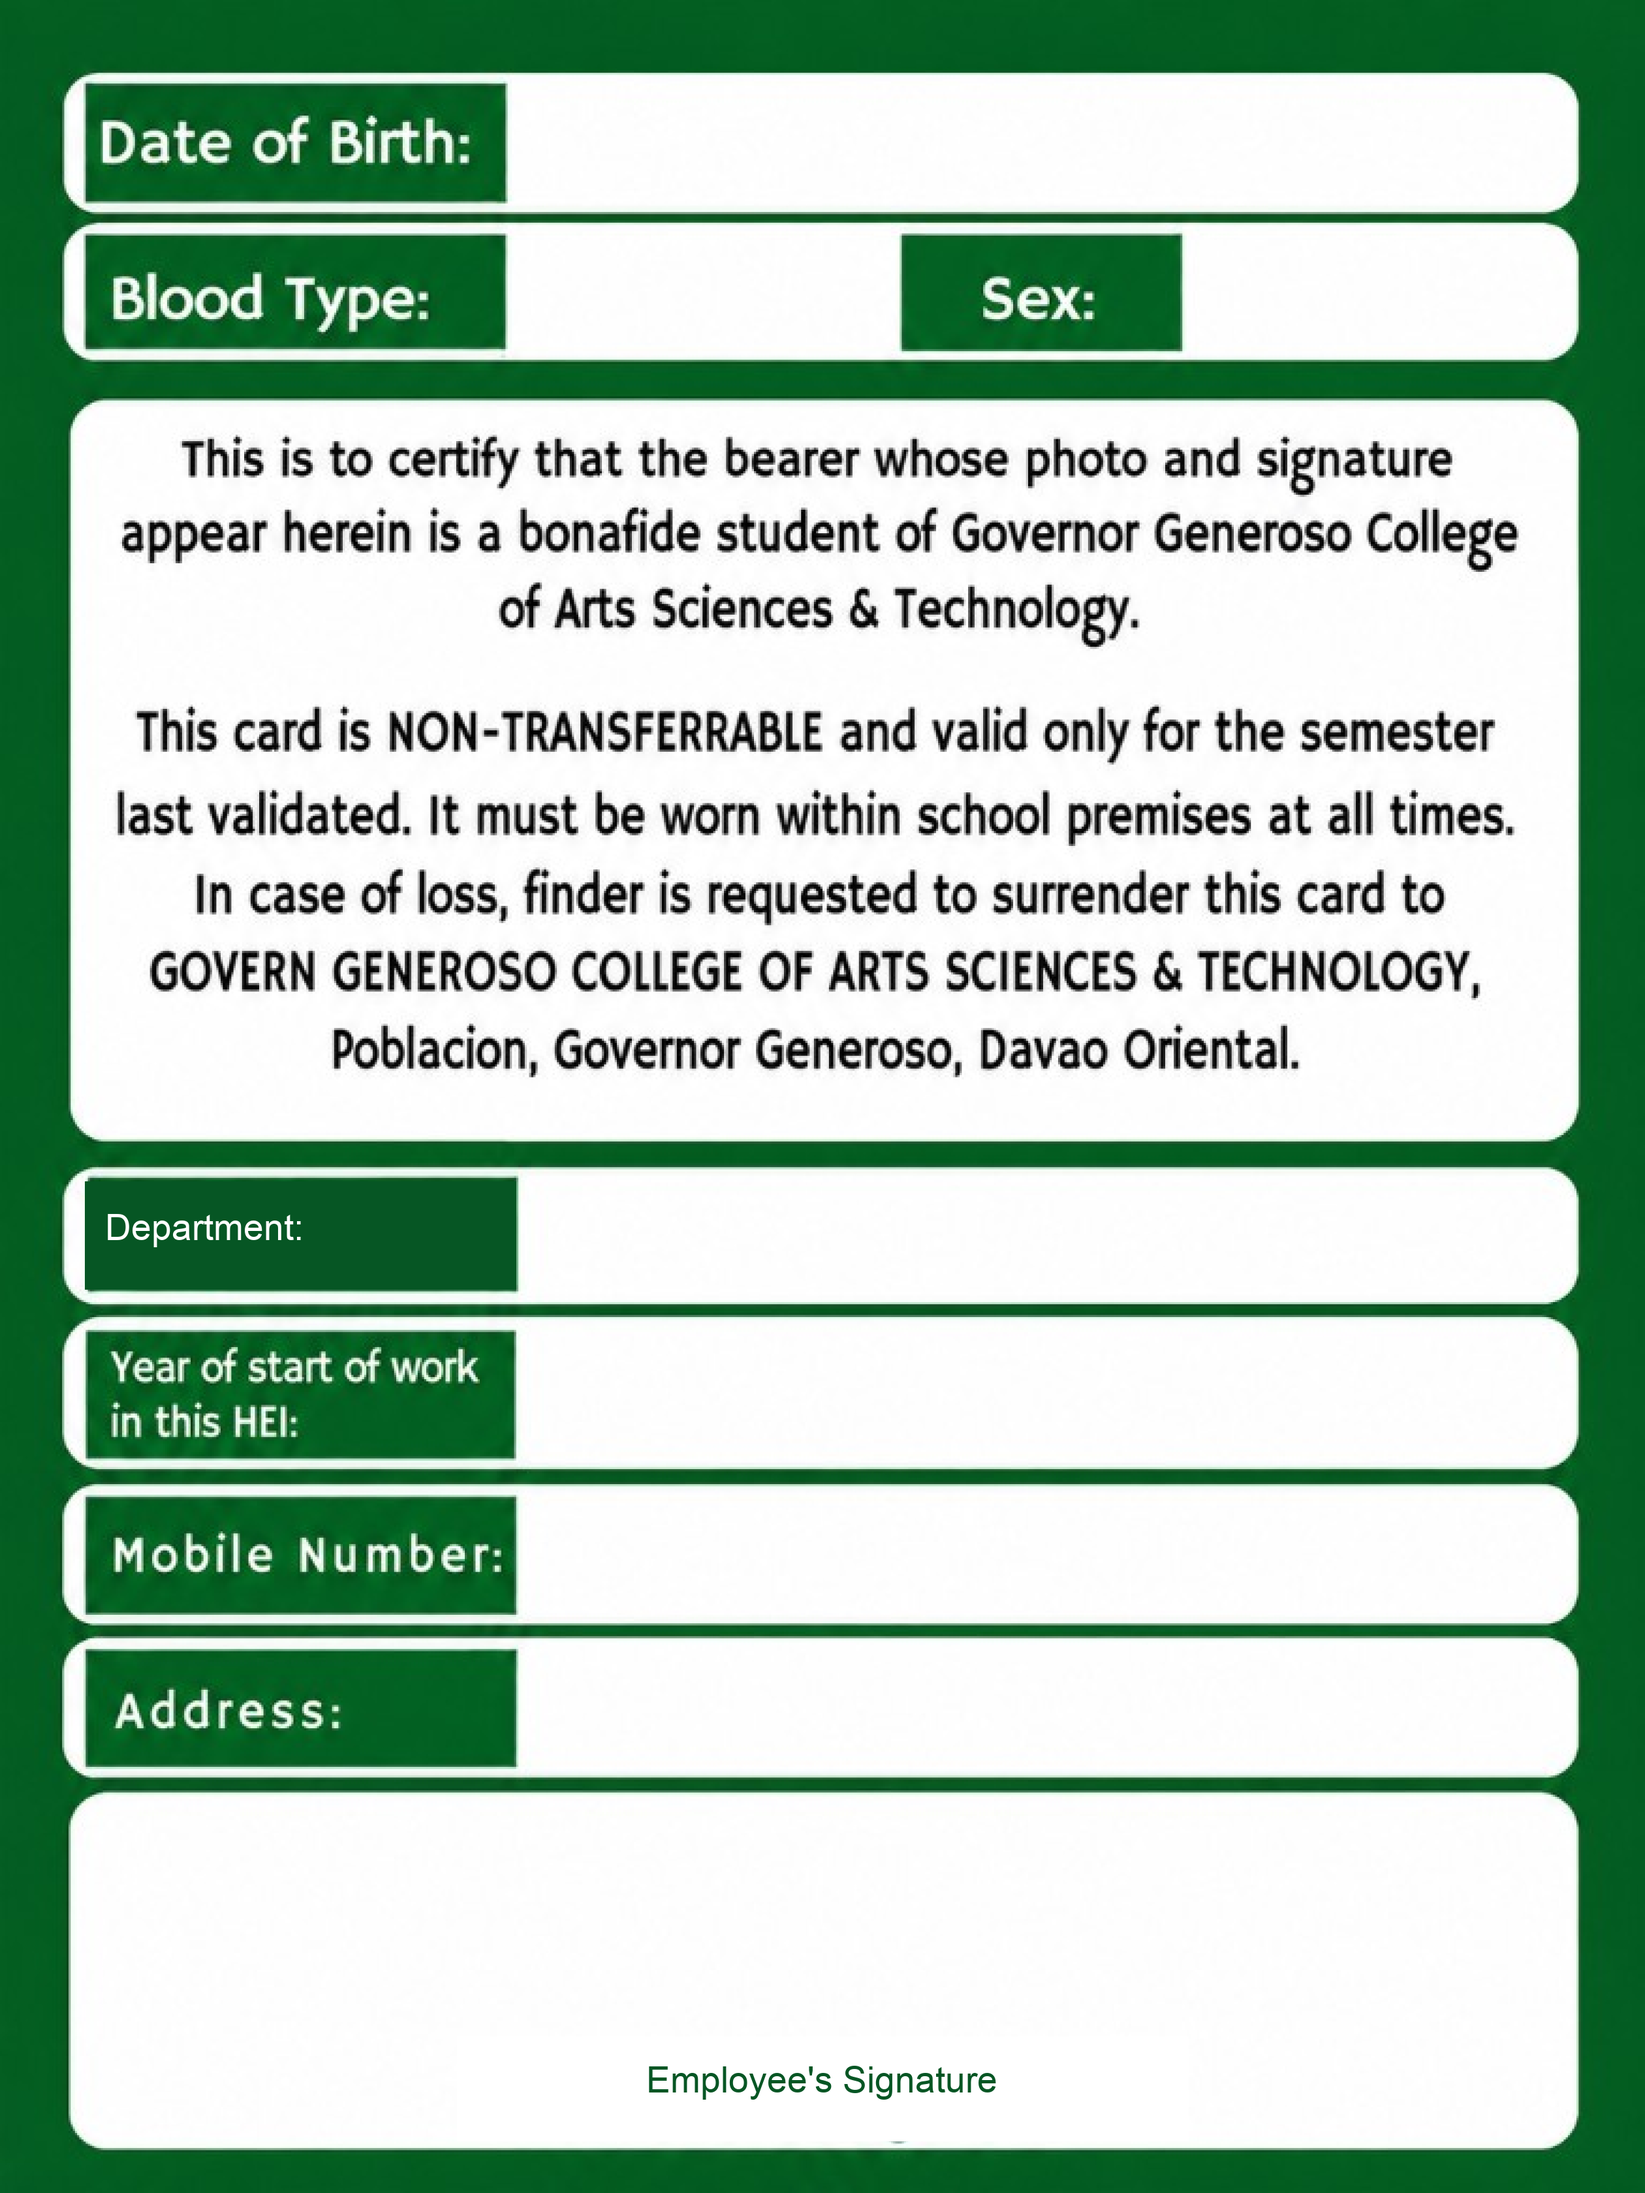
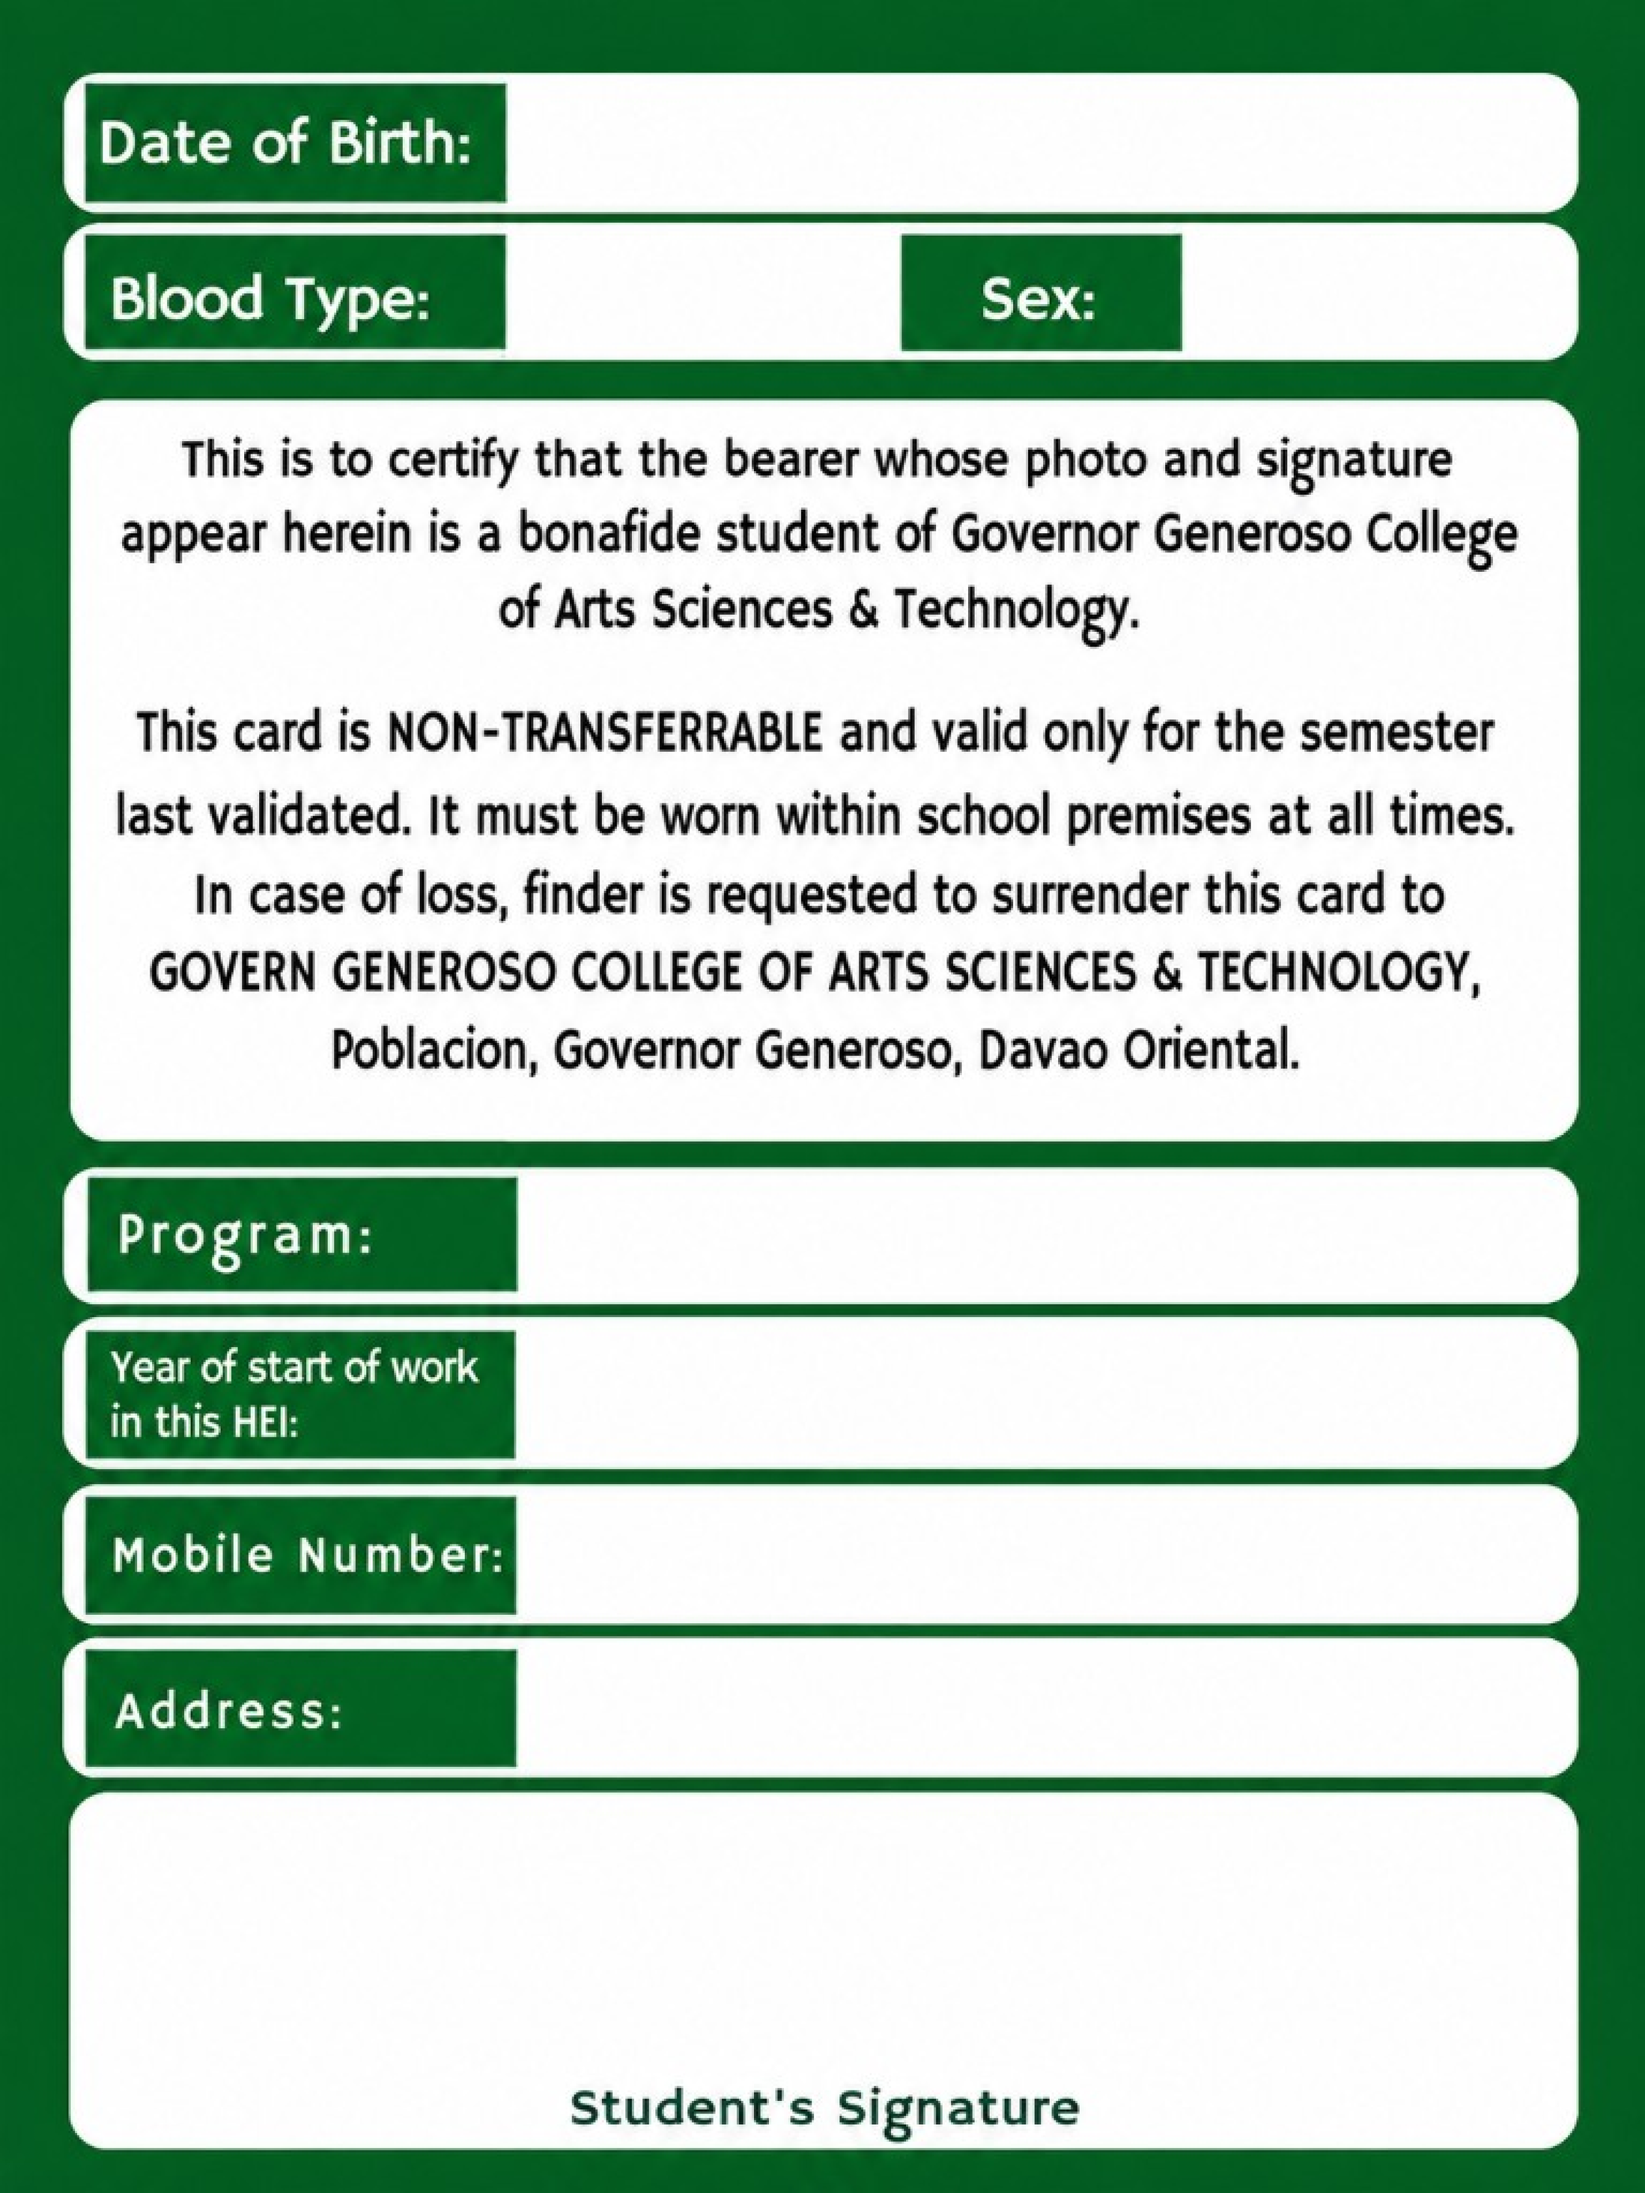
Restore full employee ID back template with certification text.

Changed region(s): [[0.3405, 0.9375, 0.65, 1.0], [0.0619, 0.5312, 0.2167, 0.5938]]

diff --git a/app/Http/Controllers/Concerns/ComposesEmployeeIdCard.php b/app/Http/Controllers/Concerns/ComposesEmployeeIdCard.php
@@ -15,10 +15,28 @@ trait ComposesEmployeeIdCard
     protected function employeeIdCardTemplate(string $side)
     {
         $name = $side === 'back' ? 'back_employee' : 'front_employee';
-        $path = PublicAssetPath::resolve("images/id_templates/{$name}.png")
-            ?? base_path("images/id_templates/{$name}.png");
+        $relative = "images/id_templates/{$name}.png";
+
+        $path = PublicAssetPath::resolve($relative)
+            ?? (is_file(public_path($relative)) ? public_path($relative) : null)
+            ?? (is_file(base_path('public/'.$relative)) ? base_path('public/'.$relative) : null);
+
+        if ($path === null || ! is_file($path)) {
+            abort(500, "Employee ID {$side} template not found at public/{$relative}. Deploy public/images/id_templates/{$name}.png.");
+        }
 
         return Image::make($path);
+    }
+
+    /**
+     * PNG response that avoids browser/proxy caching of regenerated ID cards.
+     */
+    protected function employeeIdPngResponse($img)
+    {
+        return $img->response('png')
+            ->header('Cache-Control', 'no-store, no-cache, must-revalidate, max-age=0')
+            ->header('Pragma', 'no-cache')
+            ->header('Expires', '0');
     }
 
     protected function employeeFontPath(bool $preferBold = false): string
@@ -383,9 +401,10 @@ trait ComposesEmployeeIdCard
     protected function composeEmployeeIdCardBack($img, array $data)
     {
         $valueColor = '#111111';
-        $valueSize = 58;
-        // Template y positions for Department / Year / Mobile / Address value rows.
-        // Certification paragraph stays baked into the template (do not redraw/remove it).
+        // Bolder / larger field values on the white rows
+        $valueSize = 70;
+        // Value rows on original blank back (Program / Year / Mobile / Address).
+        // Certification paragraph stays baked into the template.
         $deptY = 1895;
         $yearY = 2135;
         $mobileY = 2380;

diff --git a/app/Http/Controllers/EmployeeIdCardController.php b/app/Http/Controllers/EmployeeIdCardController.php
@@ -39,7 +39,7 @@ class EmployeeIdCardController extends Controller
             'id_number' => $employee->employee_id ?: $employee->employee_number,
         ]);
 
-        return $img->response('png');
+        return $this->employeeIdPngResponse($img);
     }
 
     public function back($id)
@@ -63,7 +63,7 @@ class EmployeeIdCardController extends Controller
             'signature' => $employee->employee_signature,
         ]);
 
-        return $img->response('png');
+        return $this->employeeIdPngResponse($img);
     }
 
     public function download($id)
